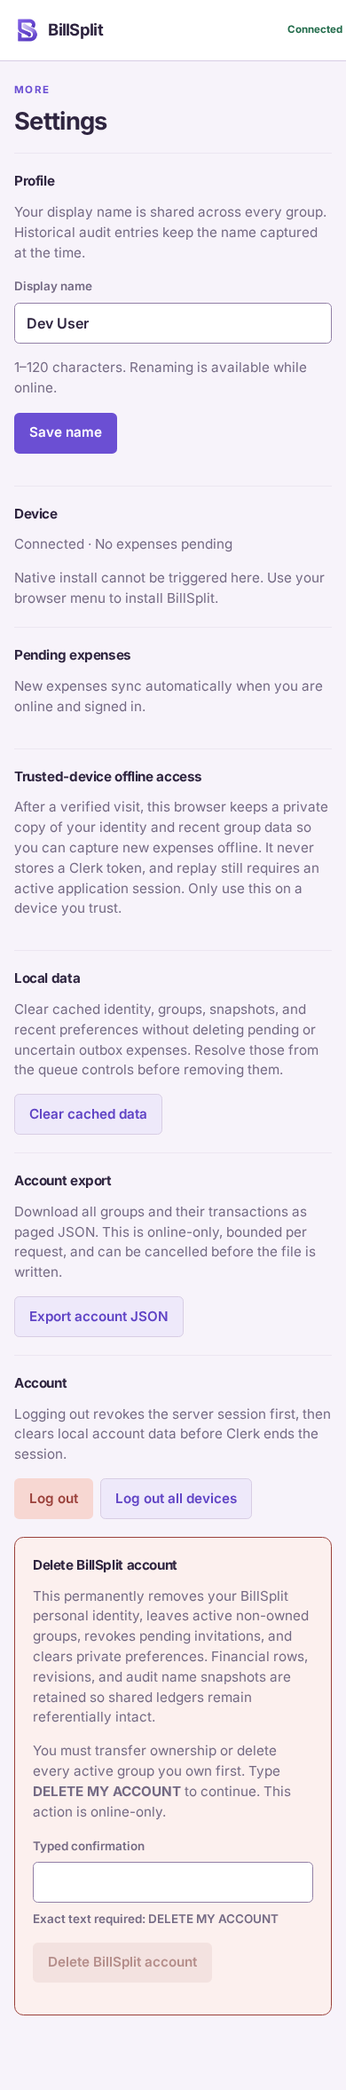
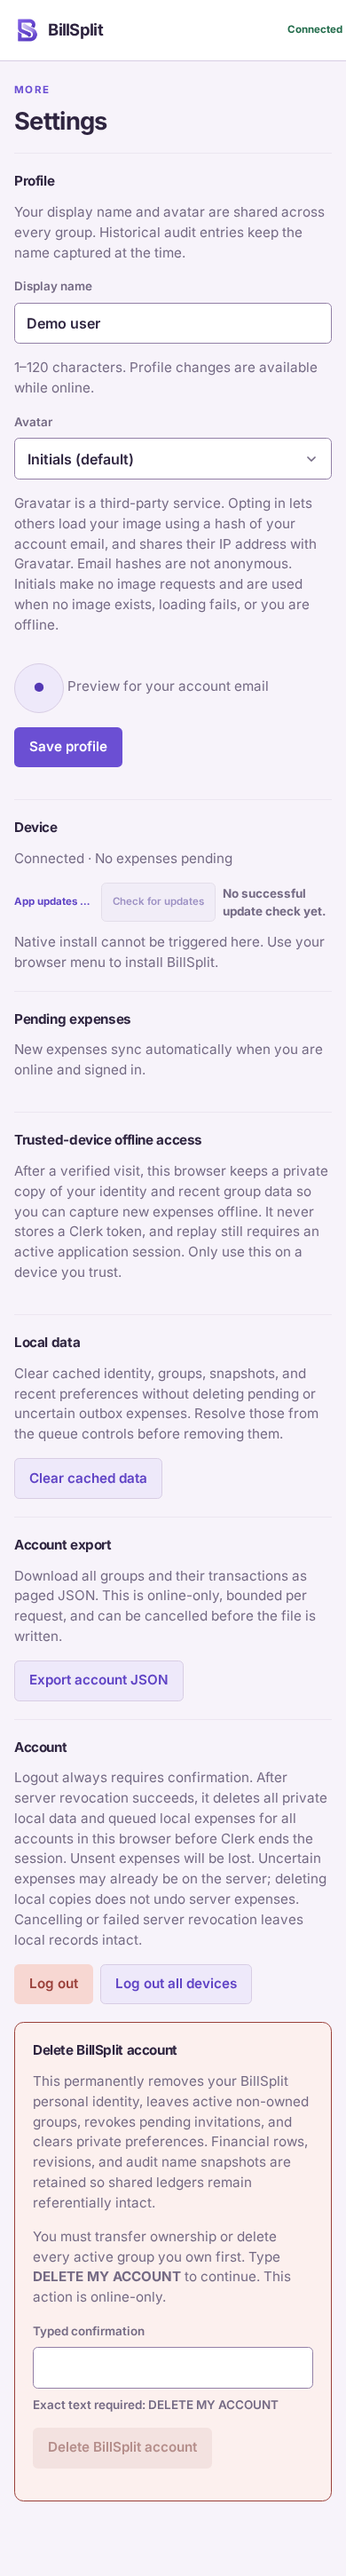
Protect deleted-group credits and clear private data on logout

Changed region(s): [[0.0308, 0.0, 0.9231, 0.9613], [0.8308, 0.0, 0.9846, 0.031]]

diff --git a/tests/e2e/logout-privacy.spec.ts b/tests/e2e/logout-privacy.spec.ts
@@ -1,0 +1,159 @@
+import { test, expect, BASE_URL, newAuthenticatedContext, DEV_EMAIL, seedOfflineTrust } from './fixtures';
+import { DB_NAME, DB_VERSION } from '../../src/app/idb';
+import type { Page } from '@playwright/test';
+import path from 'node:path';
+
+async function queueRecords(page: Page, seed = false) {
+  return page.evaluate(({ name, version, seed }) => new Promise<string[]>((resolve, reject) => {
+    const request = indexedDB.open(name, version);
+    request.onerror = () => reject(request.error);
+    request.onsuccess = () => {
+      const db = request.result;
+      const tx = db.transaction('expenseOutbox', seed ? 'readwrite' : 'readonly');
+      const store = tx.objectStore('expenseOutbox');
+      if (seed) for (const userId of ['sample-account-a', 'sample-account-b']) {
+        store.put({ clientOperationId: userId, userId, groupId: 'sample-project', payload: { description: 'Sample expense', amount_minor: 1000, currency: 'USD', date: '2026-01-01', payers: [{ person_id: 'sample-person', amount_minor: 1000 }], splits: [{ person_id: 'sample-person', amount_minor: 1000 }], client_operation_id: userId }, display: { description: 'Sample expense', amountMinor: 1000, currency: 'USD', date: '2026-01-01' }, status: 'auth-required', deliveryUncertain: userId.endsWith('b'), createdAt: '2026-01-01T00:00:00Z', updatedAt: '2026-01-01T00:00:00Z', attempts: 0 });
+      }
+      const rows = store.getAllKeys();
+      tx.oncomplete = () => { db.close(); resolve(rows.result.map(String).sort()); };
+      tx.onerror = () => { db.close(); reject(tx.error); };
+    };
+  }), { name: DB_NAME, version: DB_VERSION, seed });
+}
+
+for (const allDevices of [false, true]) {
+  test(`logout ${allDevices ? 'all devices' : 'current device'} always confirms and preserves records on revocation failure`, async ({ authenticatedPage: page }) => {
+    await page.goto(`${BASE_URL}/settings`);
+    const button = page.getByRole('button', { name: allDevices ? 'Log out all devices' : 'Log out', exact: true });
+    await expect(button).toBeEnabled();
+    const records = await queueRecords(page, true);
+    let calls = 0;
+    await page.route(`**/api/${allDevices ? 'sessions' : 'session'}`, async (route) => {
+      calls++;
+      await route.fulfill({ status: 503, contentType: 'application/json', body: JSON.stringify({ error: 'Synthetic revocation failure' }) });
+    });
+    const before = await page.evaluate(() => localStorage.getItem('dev-email'));
+    page.once('dialog', async (dialog) => {
+      expect(dialog.message()).toContain('ALL accounts');
+      expect(dialog.message()).toContain('does not undo server expenses');
+      await dialog.dismiss();
+    });
+    await button.click();
+    expect(calls).toBe(0);
+    expect(await queueRecords(page)).toEqual(records);
+    expect(await page.evaluate(() => localStorage.getItem('dev-email'))).toBe(before);
+    page.once('dialog', (dialog) => dialog.accept());
+    await button.click();
+    await expect(page.getByText('Logout was not completed.')).toBeVisible();
+    expect(calls).toBe(1);
+    expect(await queueRecords(page)).toEqual(records);
+    await expect(button).toBeDisabled(); // Transport failure marks connection unavailable.
+    expect(await page.evaluate(() => localStorage.getItem('dev-email'))).toBe(before);
+  });
+
+  test(`successful ${allDevices ? 'all-device' : 'current-device'} logout deletes every account's durable queue`, async ({ authenticatedPage: page }) => {
+    await page.goto(`${BASE_URL}/settings`);
+    const button = page.getByRole('button', { name: allDevices ? 'Log out all devices' : 'Log out', exact: true });
+    await expect(button).toBeEnabled();
+    expect(await queueRecords(page, true)).toHaveLength(2);
+    let calls = 0;
+    await page.route(`**/api/${allDevices ? 'sessions' : 'session'}`, async (route) => {
+      calls++;
+      expect(route.request().method()).toBe('DELETE');
+      await route.fulfill({ status: 204 });
+    });
+    page.once('dialog', async (dialog) => {
+      expect(dialog.message()).toContain('Unsent expenses will be lost');
+      expect(dialog.message()).toContain('Uncertain expenses may already be on the server');
+      await dialog.accept();
+    });
+    await button.click();
+    await expect.poll(() => queueRecords(page)).toEqual([]);
+    expect(calls).toBe(1);
+    // Open a fresh connection after cleanup, rather than trusting the UI queue.
+    expect(await queueRecords(page)).toEqual([]);
+  });
+}
+
+test('Settings privacy warning and guarded actions fit responsive states with synthetic screenshot evidence', async ({ browser }, testInfo) => {
+  for (const width of [320, 390, 767, 768, 895, 896, 1440]) {
+    const context = await newAuthenticatedContext(browser, DEV_EMAIL, { width, height: 844 }, { serviceWorkers: 'block' });
+    try {
+      const page = await context.newPage();
+      let releaseIdentity!: () => void;
+      const held = new Promise<void>((resolve) => { releaseIdentity = resolve; });
+      await page.route('**/api/me', async (route) => {
+        const response = await route.fetch();
+        const { id, personId, profileRevision, updatedAt, idleExpiresAt } = await response.json();
+        await held;
+        await route.fulfill({ response, json: { id, personId, profileRevision, updatedAt, idleExpiresAt, email: '', name: 'Demo user', avatarMode: 'initials' } });
+      });
+      await page.goto(`${BASE_URL}/settings`, { waitUntil: 'domcontentloaded' });
+      await expect(page.getByRole('button', { name: 'Log out', exact: true })).toHaveCount(0);
+      releaseIdentity();
+      await expect(page.getByLabel('Display name', { exact: true })).toHaveValue('Demo user');
+      const logout = page.getByRole('button', { name: 'Log out', exact: true });
+      await expect(logout).toBeEnabled();
+      await expect(page.getByText('No expenses pending', { exact: false })).toBeVisible();
+      await expect(page.getByText(/Logout always requires confirmation/)).toBeVisible();
+      const headings = await page.locator('main h2').allTextContents();
+      expect(headings.indexOf('Profile')).toBeLessThan(headings.indexOf('Account'));
+      expect(headings.indexOf('Device')).toBeLessThan(headings.indexOf('Account'));
+      const account = page.locator('.settings-section').filter({ has: page.getByRole('heading', { name: 'Account', exact: true }) });
+      await expect(account.locator('#logout-privacy-help')).toBeVisible();
+      await expect(logout).toHaveAttribute('aria-describedby', 'logout-privacy-help');
+      expect(await account.evaluate((section) => {
+        const help = section.querySelector('#logout-privacy-help')!;
+        return Boolean(help.compareDocumentPosition(section.querySelector('button')!) & Node.DOCUMENT_POSITION_FOLLOWING);
+      })).toBe(true);
+      const fits = async () => expect(await page.evaluate(() => document.documentElement.scrollWidth <= document.documentElement.clientWidth)).toBe(true);
+      await fits();
+      page.once('dialog', async (dialog) => { expect(dialog.message()).toContain('ALL accounts'); await dialog.dismiss(); });
+      await logout.click();
+      if ([390, 1440].includes(width)) {
+        // A generic demo glyph replaces synthetic initials; no emails or hashes
+        // are inherited from backend identity data in this screenshot fixture.
+        await page.locator('.avatar').evaluateAll((nodes) => nodes.forEach((node) => { node.textContent = '●'; node.setAttribute('aria-label', 'Generic demo avatar'); }));
+        expect(await page.locator('body').innerText()).not.toContain('@');
+        expect(await page.locator('.avatar img').count()).toBe(0);
+        await page.evaluate(() => { (document.activeElement as HTMLElement)?.blur(); window.scrollTo(0, 0); });
+        await page.evaluate(() => document.fonts.ready);
+        const file = `settings-${width === 390 ? 'mobile' : 'desktop'}.png`;
+        await page.screenshot({ path: process.env.UPDATE_SETTINGS_SCREENSHOTS === '1' ? path.join(process.cwd(), 'docs/screenshots', file) : testInfo.outputPath(file), fullPage: true, animations: 'disabled', style: '.bottom-nav { visibility: hidden !important; }' });
+      }
+      await page.route('**/api/session', (route) => route.fulfill({ status: 503, json: { error: 'Synthetic revocation failure' } }));
+      page.once('dialog', (dialog) => dialog.accept());
+      await logout.click();
+      await expect(page.getByText('Logout was not completed.')).toBeVisible();
+      await fits();
+      await context.setOffline(true);
+      await expect(logout).toBeDisabled();
+      await expect(page.getByRole('button', { name: 'Log out all devices', exact: true })).toBeDisabled();
+      await fits();
+      await page.unroute('**/api/me');
+      await page.route('**/api/me', (route) => route.abort('internetdisconnected'));
+      await seedOfflineTrust(page);
+      await page.evaluate(({ name, version }) => new Promise<void>((resolve, reject) => {
+        const request = indexedDB.open(name, version);
+        request.onsuccess = () => {
+          const db = request.result;
+          const tx = db.transaction(['offlineTrust', 'identities'], 'readwrite');
+          for (const [storeName, key] of [['offlineTrust', 'current'], ['identities', 'last']]) {
+            const store = tx.objectStore(storeName);
+            const row = store.get(key);
+            row.onsuccess = () => { if (row.result) store.put({ ...row.result, name: 'Demo user', email: 'dev@example.com' }); };
+          }
+          tx.oncomplete = () => { db.close(); resolve(); };
+          tx.onerror = () => reject(tx.error);
+        };
+        request.onerror = () => reject(request.error);
+      }), { name: DB_NAME, version: DB_VERSION });
+      await context.setOffline(false);
+      await page.reload();
+      await expect(page.getByLabel('Display name', { exact: true })).toHaveValue('Demo user');
+      await expect(page.getByText('Showing cached profile.', { exact: true })).toBeVisible();
+      await expect(logout).toBeDisabled();
+      await fits();
+    } finally { await context.close(); }
+  }
+});

diff --git a/src/app/App.tsx b/src/app/App.tsx
@@ -1582,7 +1582,7 @@ function Settings() {
 
   const logout = (allDevices = false) => runProtectedOperation(async () => {
     if (!online) { setLogoutError(new Error('Logout requires a connection so the server session can be revoked safely.')); return; }
-    if (outbox.length && !confirm(`You have ${outbox.length} unsynced expense${outbox.length === 1 ? '' : 's'}. They will stay on this device and sync only after the same account is verified again. Continue?`)) return;
+    if (!confirm(`${allDevices ? 'Log out all devices' : 'Log out'}? This deletes all private local data and queued local expenses for ALL accounts in this browser. Unsent expenses will be lost. Uncertain expenses may already be on the server; deleting local copies does not undo server expenses. Continue?`)) return;
     setClearing(true); setError(undefined); setLogoutError(undefined);
     try {
       if (allDevices) await revokeAllApplicationSessions(); else await revokeApplicationSession();
@@ -1635,7 +1635,7 @@ function Settings() {
       <SettingsSection title="Trusted-device offline access"><p className="muted">After a verified visit, this browser keeps a private copy of your identity and recent group data so you can capture new expenses offline. It never stores a Clerk token, and replay still requires an active application session. Only use this on a device you trust.</p></SettingsSection>
       <SettingsSection title="Local data"><p className="muted">Clear cached identity, groups, snapshots, and recent preferences without deleting pending or uncertain outbox expenses. Resolve those from the queue controls before removing them.</p><ActionGroup><Button variant="secondary" disabled={clearing} onClick={() => void clearCache}>{clearing ? 'Clearing…' : 'Clear cached data'}</Button></ActionGroup>{message ? <p className="muted" role="status">{message}</p> : null}{error ? <ErrorBox error={error} /> : null}</SettingsSection>
       <SettingsSection title="Account export"><p className="muted">Download all groups and their transactions as paged JSON. This is online-only, bounded per request, and can be cancelled before the file is written.</p><ActionGroup><Button type="button" variant="secondary" disabled={!online || exporting || clearing} onClick={() => void exportAccount}>{exporting ? 'Exporting account…' : 'Export account JSON'}</Button>{exporting ? <Button type="button" variant="danger" onClick={() => exportController.current?.abort()}>Cancel</Button> : null}</ActionGroup>{exportProgress ? <p className="cache-status" role="status">{exportProgress}</p> : null}{exportError ? <ErrorBox error={exportError} id="account-export-error" /> : null}</SettingsSection>
-      <SettingsSection title="Account"><p className="muted">Logging out revokes the server session first, then clears local account data before Clerk ends the session.</p>{logoutError ? <div className="error" id="logout-error" role="alert" aria-live="assertive"><strong>Logout was not completed.</strong> <span>{errorText(logoutError)}</span></div> : null}<ActionGroup><Button variant="danger" disabled={!outboxReady || clearing || exporting || deletingAccount || !online} onClick={() => void logout()}>{outboxReady ? clearing ? 'Signing out securely…' : 'Log out' : 'Checking pending expenses…'}</Button><Button variant="secondary" disabled={!outboxReady || clearing || exporting || deletingAccount || !online} onClick={() => void logout(true)}>Log out all devices</Button></ActionGroup></SettingsSection>
+      <SettingsSection title="Account"><p className="muted" id="logout-privacy-help">Logout always requires confirmation. After server revocation succeeds, it deletes all private local data and queued local expenses for all accounts in this browser before Clerk ends the session. Unsent expenses will be lost. Uncertain expenses may already be on the server; deleting local copies does not undo server expenses. Cancelling or failed server revocation leaves local records intact.</p>{logoutError ? <div className="error" id="logout-error" role="alert" aria-live="assertive"><strong>Logout was not completed.</strong> <span>{errorText(logoutError)}</span></div> : null}<ActionGroup><Button variant="danger" aria-describedby="logout-privacy-help" disabled={!outboxReady || clearing || exporting || deletingAccount || !online} onClick={() => void logout()}>{outboxReady ? clearing ? 'Signing out securely…' : 'Log out' : 'Checking pending expenses…'}</Button><Button variant="secondary" aria-describedby="logout-privacy-help" disabled={!outboxReady || clearing || exporting || deletingAccount || !online} onClick={() => void logout(true)}>Log out all devices</Button></ActionGroup></SettingsSection>
       <SettingsSection title="Delete BillSplit account" className="settings-section--danger"><p className="muted">This permanently removes your BillSplit personal identity, leaves active non-owned groups, revokes pending invitations, and clears private preferences. Financial rows, revisions, and audit name snapshots are retained so shared ledgers remain referentially intact.</p><p className="muted">You must transfer ownership or delete every active group you own first. Type <strong>{ACCOUNT_DELETION_CONFIRMATION}</strong> to continue. This action is online-only.</p><form onSubmit={removeAccount} aria-describedby={accountDeletionError ? 'account-deletion-error' : 'account-deletion-help'}><Field label="Typed confirmation"><input aria-describedby={accountDeletionError ? 'account-deletion-error' : 'account-deletion-help'} aria-invalid={Boolean(accountDeletionError)} required value={deletionConfirmation} onChange={(event) => { setDeletionConfirmation(event.target.value); setAccountDeletionError(undefined); }} /><span id="account-deletion-help" className="muted">Exact text required: {ACCOUNT_DELETION_CONFIRMATION}</span></Field>{accountDeletionError ? <ErrorBox error={accountDeletionError} id="account-deletion-error" /> : null}<Button type="submit" variant="danger" disabled={!online || !clerkUser?.id || clearing || exporting || deletingAccount || deletionConfirmation !== ACCOUNT_DELETION_CONFIRMATION}>{deletingAccount ? 'Deleting account…' : 'Delete BillSplit account'}</Button></form>{accountDeletionMessage ? <p className="muted" role="status">{accountDeletionMessage}</p> : null}</SettingsSection>
     </Layout>;
 }

diff --git a/src/db/group-summary.integration.test.ts b/src/db/group-summary.integration.test.ts
@@ -123,6 +123,48 @@ function databaseWithCreditDefaultRace(expenseId: string) {
 }
 
 describe('group summaries with the in-process local D1 binding', () => {
+  it('excludes deleted-group credits from global timelines without changing groupwide visibility or pagination', async () => {
+    const active = await createFixture('timeline-active');
+    const deleted = await createFixture('timeline-deleted');
+    const repo = new Repository(db);
+    await exec("INSERT INTO group_members(group_id,person_id,user_id,joined_at,role) VALUES(?,?,?,'2026-01-01','member')", deleted.groupId, active.personA, active.userA);
+    const creditIds = [`${active.groupId}-new`, `${active.groupId}-old`, `${deleted.groupId}-credit`];
+    for (const [index, id] of creditIds.entries()) {
+      const fixture = index === 2 ? deleted : active;
+      const date = ['2026-01-03', '2026-01-01', '2026-01-04'][index];
+      await exec("INSERT INTO credits(id,group_id,subtype,delivery_mode,amount_minor,currency,credit_date,created_by,created_at,updated_at) VALUES(?,?,'refund','member_reimbursement',25,'USD',?,?,?,?)", id, fixture.groupId, date, fixture.userB, date, date);
+      // The viewer is not a credit recipient: timeline access is groupwide.
+      await exec("INSERT INTO credit_allocations(credit_id,person_id,allocation_type,amount_minor) VALUES(?,?,'recipient',25)", id, fixture.personB);
+    }
+    const expenseId = `${active.groupId}-expense`;
+    await addExpense(active, expenseId, 100, '2026-01-02');
+    await exec('UPDATE groups SET deleted_at=? WHERE id=?', '2026-01-05', deleted.groupId);
+    await expect(db.prepare('SELECT deleted_at FROM credits WHERE id=?').bind(creditIds[2]).first()).resolves.toEqual({ deleted_at: null });
+    await expect(db.prepare('SELECT deleted_at FROM group_members WHERE group_id=? AND user_id=?').bind(deleted.groupId, active.userA).first()).resolves.toEqual({ deleted_at: null });
+
+    for (const kind of [undefined, 'credit'] as const) {
+      const expected = kind ? creditIds.slice(0, 2) : [creditIds[0], expenseId, creditIds[1]];
+      for (const groupId of [undefined, active.groupId]) {
+        const page = await repo.globalTransactionPage(active.userA, groupId, { kind });
+        expect(page.items.map((item) => item.id)).toEqual(expected);
+        expect(page.nextCursor).toBeUndefined();
+        const pagedIds: string[] = [];
+        let cursor: string | undefined;
+        for (let index = 0; index < expected.length; index += 1) {
+          const next = await repo.globalTransactionPage(active.userA, groupId, { kind, limit: 1, cursor });
+          expect(next.items).toHaveLength(1);
+          pagedIds.push(next.items[0].id);
+          cursor = next.nextCursor;
+          if (index < expected.length - 1) expect(cursor).toBeDefined();
+        }
+        expect(pagedIds).toEqual(expected);
+        expect(cursor).toBeUndefined();
+      }
+      await expect(repo.globalTransactionPage(active.userA, deleted.groupId, { kind, limit: 1 })).resolves.toEqual({ items: [], nextCursor: undefined });
+    }
+    expect((await repo.transactionPage(active.groupId, { kind: 'credit' })).items.map((item) => item.id)).toEqual(creditIds.slice(0, 2));
+  });
+
   it('uses authoritative fallback, publishes a ready projection, and selects the branch from one read snapshot', async () => {
     const fixture = await createFixture('fallback');
     await addExpense(fixture, `${fixture.groupId}-expense`, 100, '2026-01-01');

diff --git a/src/app/api.ts b/src/app/api.ts
@@ -1,7 +1,7 @@
 import type { Activity, AuditDisclosureEvent, AuditEvent, Credit, Expense, Group, GroupInvitation, GroupMember, GroupSplitDefault, GroupResponse, HistoricalParticipant, ScheduledExpense, Settlement, Balances, SpendingInsightSummaryResponse, SpendingInsightTrends, Transaction } from '../shared/types';
 import type { CreditInput, GroupSplitDefaultInput, ScheduledExpenseInput, SettlementInput } from '../shared/schemas';
 import { avatarPreference } from '../shared/avatar';
-import { clearAllPrivateData, clearCachedData, isOfflineTrustUsable, normalizeActivity, patchCachedMemberName, readActivity, readCategories, readExpenseDetails, readGlobalTransactions, readGroupSnapshot, readGroups, readOfflineTrust, readMutationGeneration, reconcileOutboxItems, revokeOfflineTrust, saveGlobalTransactions, saveOfflineTrust, saveVerifiedIdentity, updateOfflineTrustName, updateGroupSnapshotIfGenerationMatches, type GroupSnapshot, type OfflineTrustRecord } from './idb';
+import { clearAllPrivateData, isOfflineTrustUsable, normalizeActivity, patchCachedMemberName, readActivity, readCategories, readExpenseDetails, readGlobalTransactions, readGroupSnapshot, readGroups, readOfflineTrust, readMutationGeneration, reconcileOutboxItems, revokeOfflineTrust, saveGlobalTransactions, saveOfflineTrust, saveVerifiedIdentity, updateOfflineTrustName, updateGroupSnapshotIfGenerationMatches, type GroupSnapshot, type OfflineTrustRecord } from './idb';
 import { allowIdentityVerification, blockResourceIdentity, getResourceSnapshot, invalidateForMutation, patchResourceData, resetResourceIdentity, resourceKeys, seedResource, setResourceAuthLifecycleReady, setResourceIdentity } from './resource-cache';
 import { quiesceOutboxForLogout, resumeOutboxAfterFailedLogout } from './logout-coordination';
 import { beginLocalLogoutCleanup, broadcastSessionCoordination, cancelLocalLogoutCleanup, captureAuthInvalidationNonce, captureSessionGeneration, clearSessionLogout, completeLocalLogoutCleanup, consumeAuthInvalidationNonce, getLocallyOwnedLogoutGeneration, getSessionGeneration, getSessionLogoutInProgress, hydrateSessionCoordination, isSessionGenerationCurrent, isSessionLogoutAdopted, recordProfileRevision, rollbackSessionLogout, SessionGenerationMismatchError, startSessionLogout, subscribeSessionCoordination, subscribeSessionLogout } from './session';
@@ -2011,10 +2011,9 @@ export async function clearEverythingForLogout(broadcast = true, receivedGenerat
     // deliberately performed after the bounded wait as well, so a transport
     // which ignores abort cannot strand local private rows.
     await withExclusiveMutationLock(async () => { await outboxQuiescence; });
-    // Logout revokes private trust and cache but deliberately preserves the
-    // durable new-expense outbox. It is user-scoped and cannot replay until
-    // the same internal account is authoritatively verified again.
-    await clearCachedData();
+    // Explicit logout consent covers every account's private local records.
+    // Delete after quiescence so late transports cannot recreate queued rows.
+    await clearAllPrivateData();
   } catch (error) {
     // Keep the current authenticated UI visible when storage is unavailable.
     // Release the lock barrier so retry is possible; the session generation

diff --git a/src/db/repository.ts b/src/db/repository.ts
@@ -1470,7 +1470,7 @@ export class Repository {
        UNION ALL
        SELECT c.id,c.group_id,${groupName},NULL,c.amount_minor,c.currency,c.credit_date,NULL,NULL,c.note,NULL,NULL,NULL,NULL,c.created_by,c.created_at,c.client_operation_id,'credit' AS kind,c.subtype,c.delivery_mode
         FROM credits c JOIN groups g ON g.id=c.group_id${userId === undefined ? '' : ' JOIN group_members authorized_member ON authorized_member.group_id=c.group_id AND authorized_member.user_id=?1 AND authorized_member.deleted_at IS NULL'}
-       WHERE ${userId === undefined ? 'c.group_id=?1' : `EXISTS (SELECT 1 FROM group_members credit_member WHERE credit_member.group_id=c.group_id AND credit_member.user_id=?1 AND credit_member.deleted_at IS NULL${groupId ? ' AND credit_member.group_id=?3' : ''})`} AND c.deleted_at IS NULL
+       WHERE ${userId === undefined ? 'c.group_id=?1' : `EXISTS (SELECT 1 FROM group_members credit_member WHERE credit_member.group_id=c.group_id AND credit_member.user_id=?1 AND credit_member.deleted_at IS NULL${groupId ? ' AND credit_member.group_id=?3' : ''})`} AND c.deleted_at IS NULL AND g.deleted_at IS NULL
      ) SELECT * FROM transaction_rows tr WHERE 1=1`;
     if (opts.kind) { sql += ' AND tr.kind=?'; args.push(opts.kind); }
     if (opts.q) { const escaped = escapedLike(opts.q); assertLikeSearch(escaped); const pattern = `%${escaped}%`; sql += " AND (tr.description LIKE ? ESCAPE '\\' OR tr.notes LIKE ? ESCAPE '\\' OR tr.note LIKE ? ESCAPE '\\')"; args.push(pattern, pattern, pattern); }

diff --git a/src/app/outbox.test.ts b/src/app/outbox.test.ts
@@ -643,6 +643,7 @@ describe('durable expense outbox', () => {
     await queue('logout-in-flight');
     const flush = flushOutbox();
     await vi.waitFor(() => expect(expenseCalls).toBe(1));
+    const lateClaim = await readOutboxItem('logout-in-flight');
     const logout = clearEverythingForLogout(false);
     await vi.waitFor(() => expect(abortObserved).toBe(true));
     let logoutSettled = false;
@@ -655,7 +656,11 @@ describe('durable expense outbox', () => {
     await flushOutbox();
     expect(abortObserved).toBe(true);
     expect(expenseCalls).toBe(1);
-    expect(await listOutbox('user-a')).toHaveLength(1);
+    expect(await listOutbox()).toHaveLength(0);
+    // Even a stale completion trying to release its old lease cannot recreate
+    // the deleted durable operation after cleanup.
+    expect(await updateOutboxIfOwned('logout-in-flight', lateClaim!.leaseOwner!, { status: 'pending', deliveryUncertain: true })).toBeUndefined();
+    expect(await listOutbox()).toEqual([]);
   });
 
   it('does not release an in-flight lease when auth downgrades before transport settles', async () => {

diff --git a/src/app/api.test.ts b/src/app/api.test.ts
@@ -61,7 +61,7 @@ describe('frontend API errors and cache fallback', () => {
       await expect(lateResult).resolves.toMatchObject({ code: 'AUTH_REQUIRED' });
       await expect(saveGroups({ userId: 'mutation-user', groups: [], cachedAt: '' }, generation)).rejects.toThrow('local session changed');
       expect(await readGroups('mutation-user')).toBeUndefined();
-      expect(await listOutbox('mutation-user')).toHaveLength(1);
+      expect(await listOutbox('mutation-user')).toHaveLength(0);
       expect(getAuthLifecycle().status).toBe('unauthenticated');
       expect(getAuthState()).toMatchObject({ required: true, code: 'AUTH_REQUIRED' });
       expect(finalizeSuccessfulClerkSignOut()).toBe(true);

diff --git a/README.md b/README.md
@@ -414,7 +414,7 @@ The app supports trusted-device offline capture for **new expenses only**. After
 
 On iOS/iPadOS, the installable PWA uses the same cached shell and foreground-authenticated flows as other supported browsers. Background Sync is feature-detected as a wake-up hint for queued new expenses only. It never sends an expense from the service worker because the authenticated application-session cookie, internal-user binding, lease protocol, and logout barrier remain authoritative in the foreground; foreground replay is always the fallback.
 
-Settings can clear cached identity, groups, snapshots, and recent preferences without deleting pending or delivery-uncertain outbox operations. Those operations must be resolved through their queue controls. Logging out first revokes the current server application session while online, then quiesces mutations and clears private cache data while preserving the user-scoped expense outbox; queued expenses cannot replay until that same internal account is verified again. Clerk is then asked to end the session and redirect to `/`; a failed revocation leaves local data intact. All-device logout revokes every application session. State-changing API requests and destructive logout use the Web Locks API when available, so supported Chromium browsers and installed PWAs wait for every dispatched mutation to settle before local data is cleared. Browsers without Web Locks still block new mutations through the same-tab registry plus the storage/BroadcastChannel session barrier, but cannot observe a fetch still in flight in another tab; users should finish logout in a Web Locks-capable browser when that cross-tab guarantee matters.
+Settings can clear cached identity, groups, snapshots, and recent preferences without deleting pending or delivery-uncertain outbox operations. Ordinary account switches also preserve those operations. Both logout actions always require explicit confirmation, even with an empty queue. Logging out first revokes the server application session while online, then requests mutation quiescence and deletes all private local data, including the entire durable expense outbox for **all accounts in this browser**. Unsent expenses are lost; uncertain deliveries may already be on the server, and deleting local copies does not undo server expenses. Clerk is then asked to end the session and redirect to `/`; cancellation or failed server revocation leaves private local records intact. All-device logout revokes every application session, but local deletion affects this browser, not remote browsers' storage. Adopted-tab logout uses the same cleanup. Mutation quiescence is a bounded, best-effort wait (750ms), not a guarantee that every dispatched mutation has settled before cleanup. Web Locks coordinate dispatched mutations across supported tabs when available; same-tab and storage/BroadcastChannel barriers block new work, while generation checks and late-response fences prevent stale completions from repopulating local private records. Browsers without Web Locks cannot observe a fetch still in flight in another tab. A dispatched expense may already have been saved on the server even if its local queued copy is deleted.
 
 Account deletion is separate from Clerk account management: the server deletion succeeds first and writes an identity-bound, non-sensitive pending-deletion marker outside IndexedDB. The app processes that marker before private hydration; a `server-pending` marker retries the authenticated, idempotent server DELETE with the marker's exact Clerk ID in `X-BillSplit-Expected-Clerk-User-Id`, and never clears local data or calls Clerk until the server commit is confirmed. The Worker requires both the application session and a fresh matching Clerk identity, then revokes all application sessions atomically with repository deletion. It then clears all local BillSplit data and calls the installed Clerk client's typed `UserResource.delete()` API. If the session expires or the user signs out after server/local cleanup, the marker remains and the app requires sign-in to the same Clerk account before provider deletion; only a confirmed `provider-deleted` marker may be cleared while signed out. Actor-name snapshots in financial audit and membership history are intentionally retained without email/contact details. Signed Clerk deletion/disable webhooks are intentionally deferred until a verified webhook API and secret are available; no pseudo-signature validation is used.
 
@@ -504,3 +504,6 @@ Scheduled templates fetch one bounded page initially and expose explicit
 **Load more scheduled expenses**. This prevents unbounded client requests and
 memory growth while making a partial list explicit rather than silently
 presenting it as complete.
+## Repeatable Settings privacy evidence
+
+Run `BILLSPLIT_E2E_PORT=8798 PLAYWRIGHT_BROWSERS_PATH=/ms-playwright UPDATE_SETTINGS_SCREENSHOTS=1 npm run test:e2e:local -- tests/e2e/logout-privacy.spec.ts --project=chromium --workers=1` to refresh `docs/screenshots/settings-mobile.png` and `settings-desktop.png`. The fixture constructs Demo user identity data without rendered emails or avatar hashes, uses a generic demo avatar glyph, and checks rendered text before capture. Full-page captures hide only the fixed bottom navigation to avoid a stripe over content. The native browser confirmation cannot be captured in page screenshots; dialog assertions cover its warning and the visible Settings help provides captureable privacy/loss context.

diff --git a/docs/responsive-audit-matrix.md b/docs/responsive-audit-matrix.md
@@ -640,3 +640,19 @@ lifecycle tests cover real captured manual clicks, draft/save refusal and offlin
 installed application. Verification completed: both focused
 Settings tests passed across all seven widths, including all phase fixtures and
 short/long manual failure feedback in header and Settings (Chromium).
+## Logout privacy — verified Chromium matrix (2026-10-10)
+
+`tests/e2e/logout-privacy.spec.ts` passed five focused browser tests using the local cached-browser wrapper. The responsive test executes **320, 390, 767, 768, 895, 896, and 1440px** (844px viewport height).
+
+| State | Verified at every listed width |
+| --- | --- |
+| Loading | Held identity response exposes no logout action before verification completes. |
+| Online / empty queue | Warning lives inside Account immediately before logout controls and describes both buttons; Profile and Device precede Account; both actions enabled; no horizontal page overflow. |
+| Confirmation / cancellation | Empty queue still opens native confirmation with all-account consent; dismiss returns to Settings. |
+| Revocation error | Accepted logout with synthetic HTTP 503 shows “Logout was not completed”; error layout does not overflow. |
+| Offline | Both logout actions disabled; existing profile remains visible; no overflow. |
+| Cached verification fallback | Seeded matching trust and persisted Demo user identity, failed `/me` transport on reload: cached-profile notice, retained name, disabled logout, no overflow. Shell assets load online in this check; this is not a cold offline-shell reload claim. |
+
+Separate current/all-device behavior tests verify cancellation sends no revocation, preserves durable records from two accounts and local session preference; HTTP 503 preserves those records; accepted HTTP 204 revocation deletes both accounts' durable records, including an uncertain delivery, using fresh IndexedDB connections. These use intercepted revocation responses in the development-auth harness, not real Clerk sign-out or remote-device storage tests. API/outbox/IndexedDB/session unit coverage verifies adopted-tab cleanup, delayed private responses, stale lease completions, mutation quiescence, and nondestructive clear-cache behavior.
+
+Refreshed full-page `settings-mobile.png` (390px) and `settings-desktop.png` (1440px) show the visible privacy warning with constructed Demo user data, no rendered email/hash/identity initials, and a generic demo avatar glyph. Capture hides only the fixed bottom navigation to avoid a content stripe. Native confirmation is browser chrome, not capturable in page screenshots; its meaningful warning state is asserted through Playwright dialog events. Reproduce with the README's `UPDATE_SETTINGS_SCREENSHOTS=1` command. Other browsers, real provider logout, and real remote revocation were not exercised by this focused matrix.
